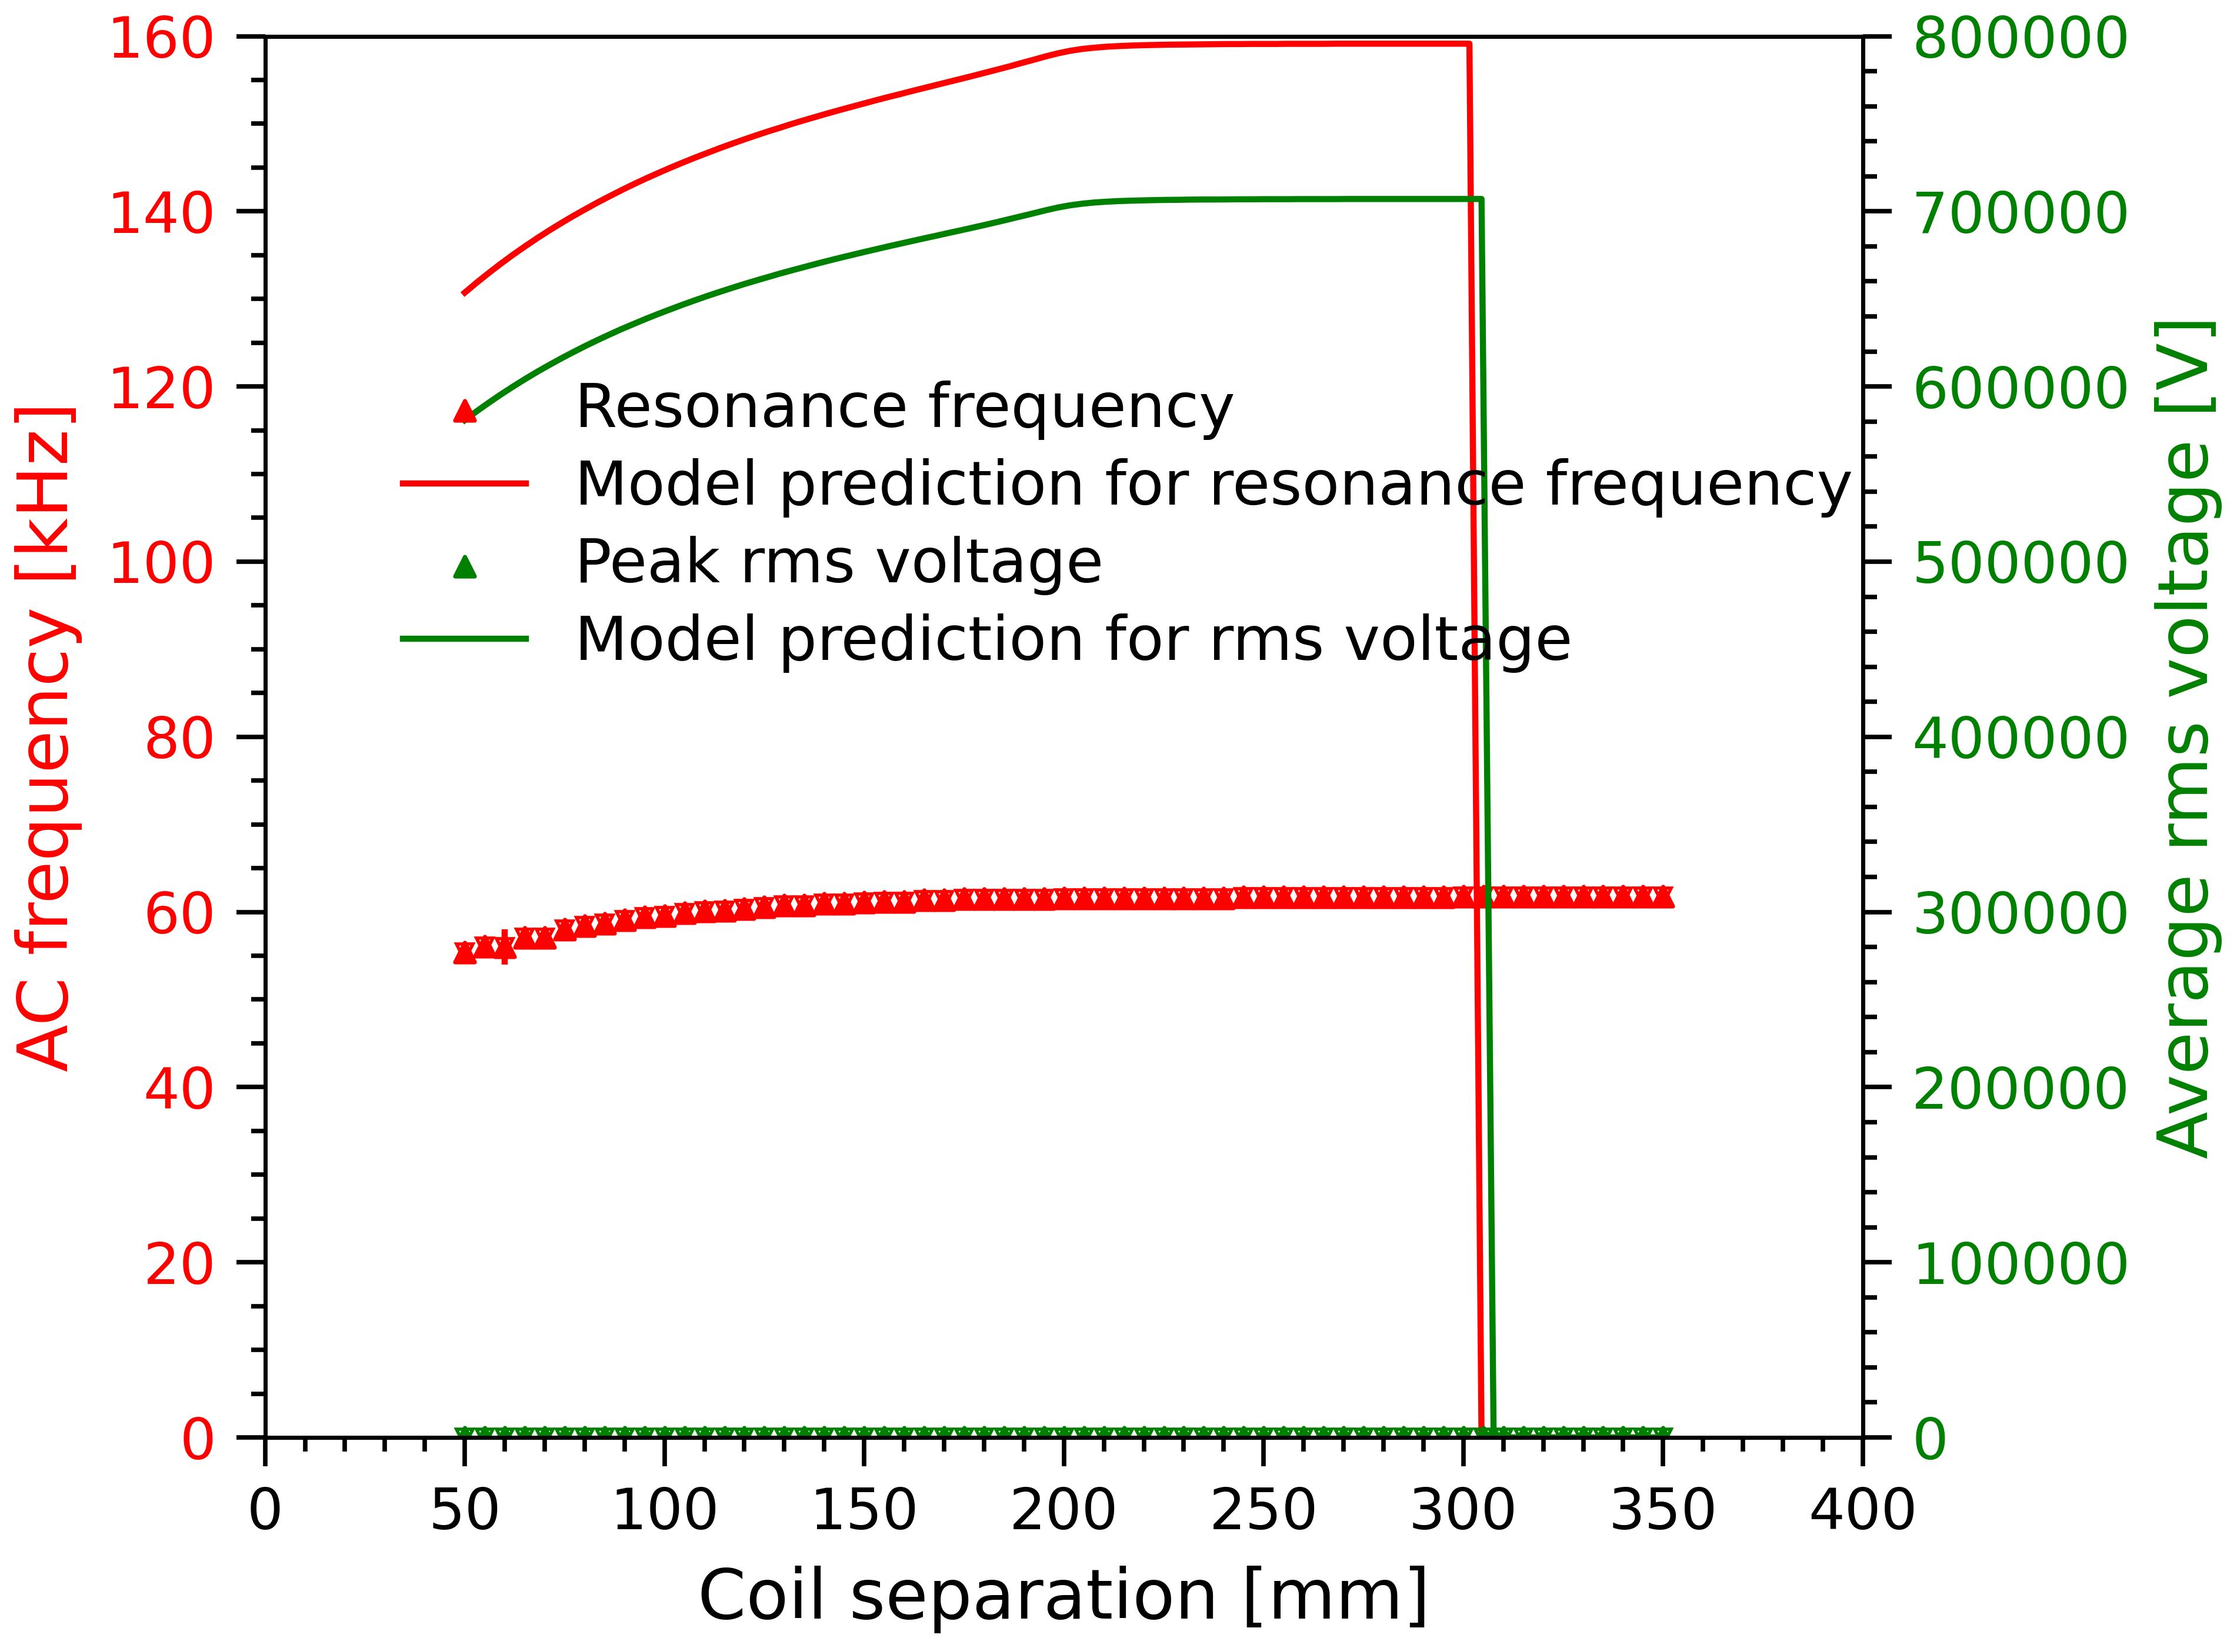
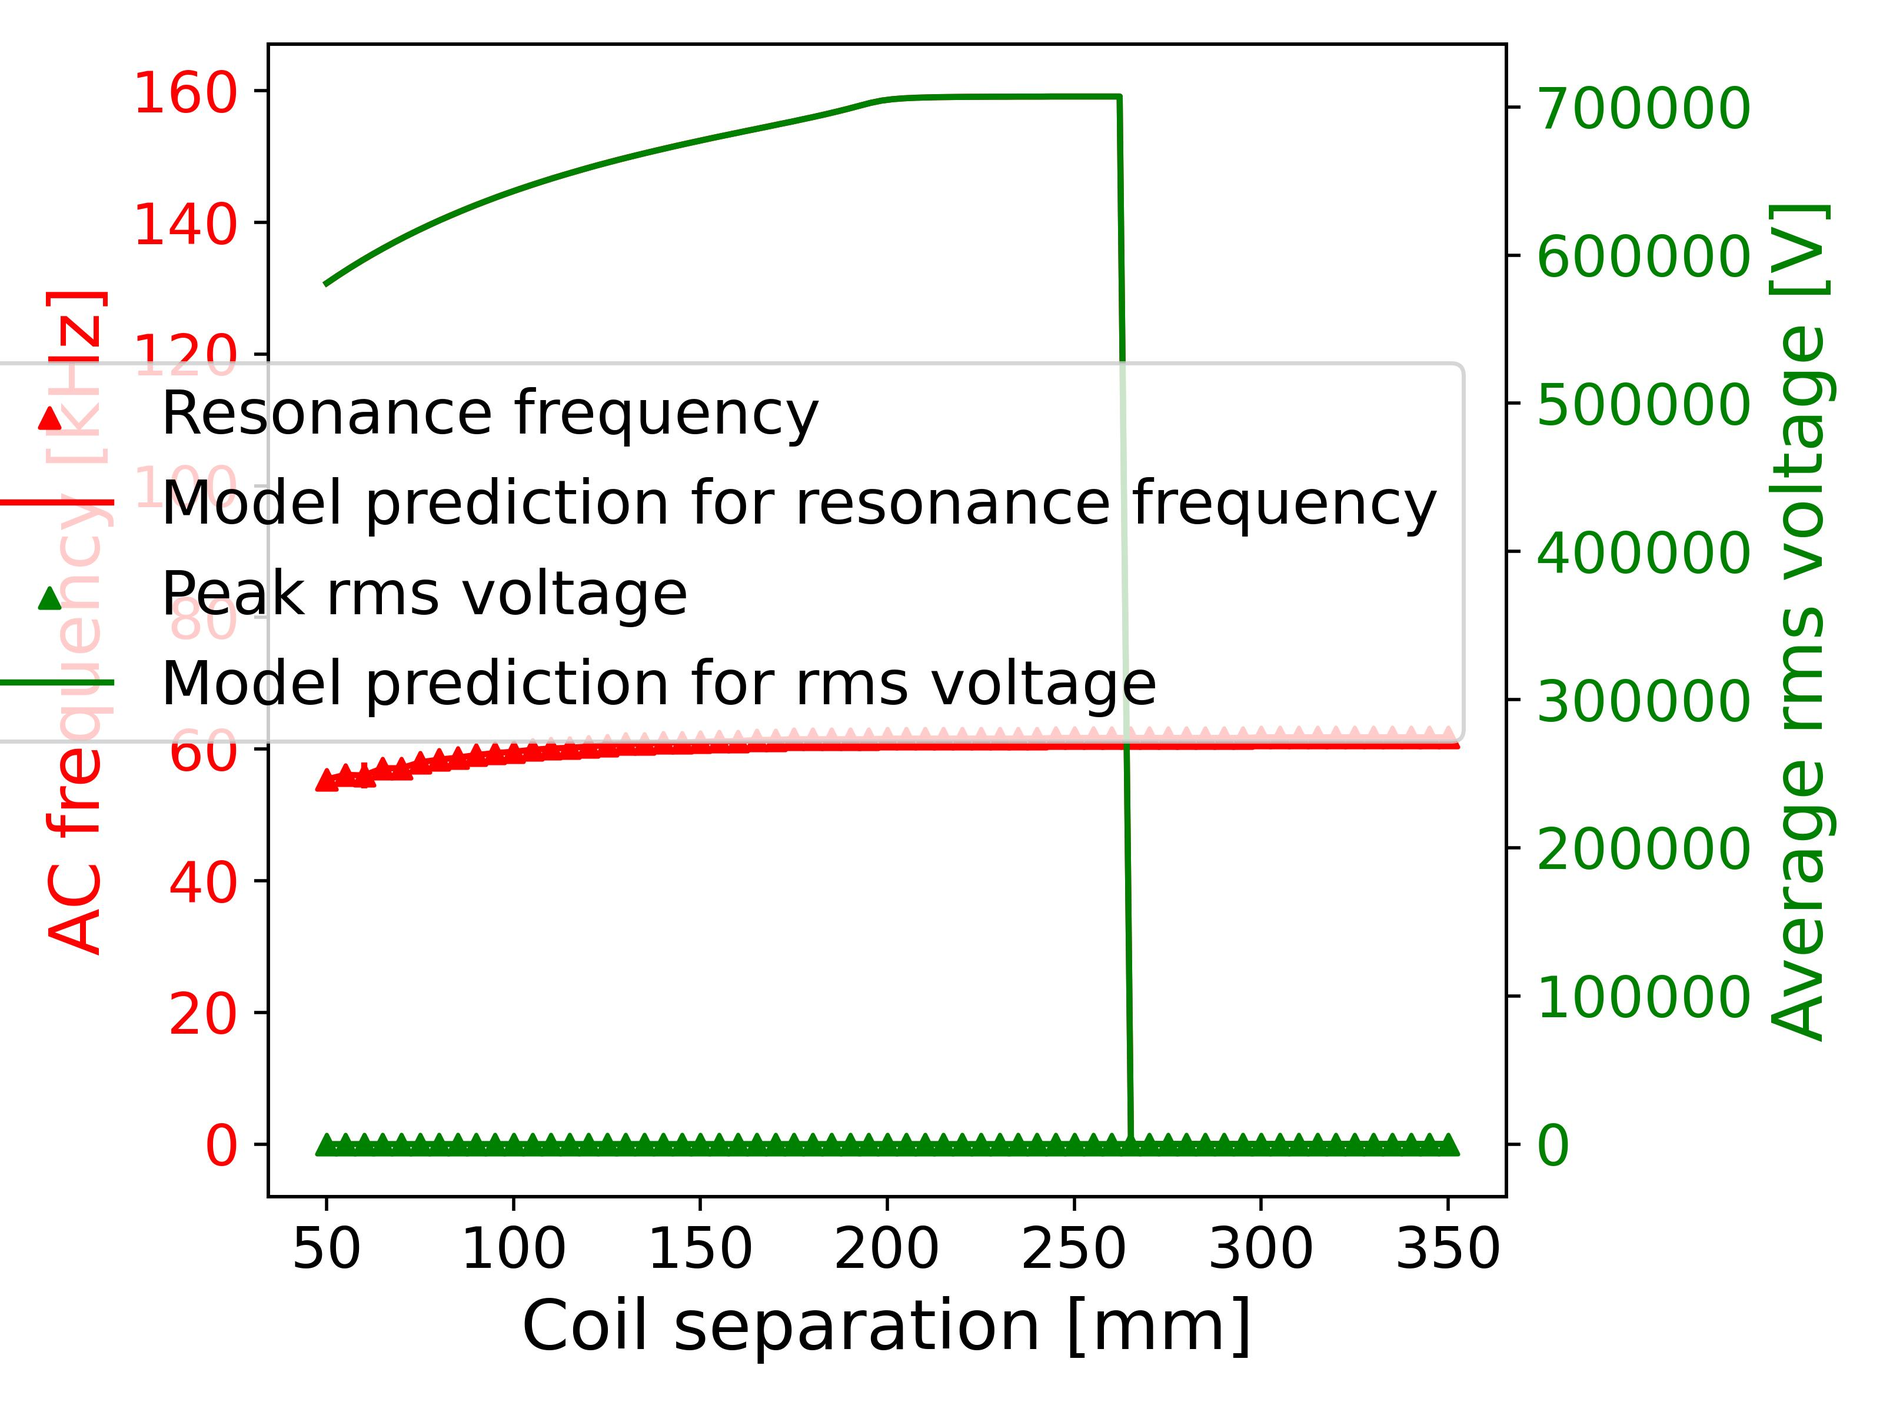
Smooth brain frequency to voltage

diff --git a/main.py b/main.py
@@ -60,7 +60,7 @@ plt.ylabel('Peak voltage [V]')
 plt.legend(loc="upper right", borderaxespad=0.5)
 # plt.title("Theoretical model compared with data of frequency versus voltage for a distance of 5 cm")
 plt.savefig("Theoretical model compared with data of frequency versus voltage for a distance of 5 cm.jpg", dpi=500)
-# plt.show()
+plt.show()
 
 # Plotting the data vs the predicted values for a distance of 35 cm
 newxqr = np.linspace(newx[0], newx[-1], 10000)
@@ -73,7 +73,7 @@ plt.ylabel('Peak voltage [V]')
 plt.legend(loc="upper right", borderaxespad=0.5)
 # plt.title("Theoretical model compared with data of frequency versus voltage for a distance of 35 cm")
 plt.savefig("Theoretical model compared with data of frequency versus voltage for a distance of 35 cm.jpg", dpi=500)
-# plt.show()
+plt.show()
 
 # Fitting the data and plotting with the correct resistance for 5 cm
 norespopt, norespcov = curve_fit(functions.voltnores, xdata, ydata, p0=[0.1, 0.1, 1e-10], maxfev=500000)
@@ -89,8 +89,8 @@ plt.ylabel('Peak voltage [V]')
 plt.legend(loc="upper right", borderaxespad=0.5)
 # plt.title("Fitting the values with the correct resistances for a distance of 5 cm")
 plt.savefig("Fitting the values with the correct resistances for a distance of 5 cm.jpg", dpi=500)
-# plt.show()
-
+plt.show()
+'''
 # Fitting the data and plotting with the correct resistance for 35 cm
 norespopt, norespcov = curve_fit(functions.voltnores35, newx, newy, p0=[0.1, 0.1, 1e-10], maxfev=500000)
 norespopt = abs(norespopt)  # making sure the values are positive
@@ -105,7 +105,7 @@ plt.ylabel('Peak voltage [V]')
 plt.legend(loc="upper right", borderaxespad=0.5)
 # plt.title("Fitting the values with the correct resistances for a distance of 35 cm")
 plt.savefig("Fitting the values with the correct resistances for a distance of 35 cm.jpg", dpi=500)
-# plt.show()
+plt.show()'''
 
 # Fitting the data for all values for 5 cm
 print(functions.M)
@@ -123,7 +123,7 @@ plt.ylabel('Peak voltage [V]')
 plt.legend(loc="upper right", borderaxespad=0.5)
 # plt.title("Fitting the values for a distance of 5 cm")
 plt.savefig("Fitting the values for a distance of 5 cm.jpg", dpi=500)
-# plt.show()
+plt.show()
 a = popt
 # Fitting the data for all values for 35 cm
 functions.M = functions.mutual(0.35)
@@ -141,7 +141,7 @@ plt.ylabel('Peak voltage [V]')
 plt.legend(loc="upper right", borderaxespad=0.5)
 # plt.title("Fitting the values for a distance of 35 cm")
 plt.savefig("Fitting the values for a distance of 35 cm.jpg", dpi=500)
-# plt.show()
+plt.show()
 
 p, = plt.plot(xdata, functions.volt(xdata, *a), 'r-')
 plt.ylim(0, 100)
@@ -155,7 +155,7 @@ def value_update(val):
 
 
 slider.on_changed(value_update)
-# plt.show()
+plt.show()
 
 """popt1, pcov1 = curve_fit(functions.v1dis, xdis, ydis, p0=[5, 0.1, 60, 7, 1e-10], bounds=(0, 70), maxfev=5000)
 errs = np.sqrt(np.diag(abs(pcov1)))
@@ -182,7 +182,7 @@ def newupdate(val):
 plt.xlabel('Distance [cm]')
 plt.ylabel('First peak voltage [V]')
 plt.legend()
-# plt.show()"""
+plt.show()"""
 
 popt1, pcov1 = curve_fit(functions.f1dis, xfr, yfr, p0=[0.04, 0.087, 1067, 1034, 1.128e-10], maxfev=50000)
 errs = np.sqrt(np.diag(abs(pcov1)))
@@ -196,22 +196,22 @@ plt.plot(xfr, functions.f1dis(xfr, 0.1, 0.1, 57, 7, 1e-10), 'g-',
 plt.xlabel('Distance [cm]')
 plt.ylabel('First peak angular frequency [rad/s]')
 plt.legend()
-# plt.show()
+plt.show()
 
 dist = np.linspace(50, 350, 100)
 
 functions.double_plot(nrv_d13, nrf_d13, nrv13, nrf13, nrv_d13_err, nrf_d13_err, nrv13_err, nrf13_err, dist,
                       functions.f1dis(dist / 10, 0.01, 0.01, 57, 7, 1e-10) / (2000 * np.pi), dist,
-                      functions.v1dis(dist / 10, 0.01, 0.01, 57, 7, 1e-10) / np.sqrt(2), "first, merged", "no resistor")
+                      functions.v1dis(dist / 10, 0.04, 0.087, 1067, 1034, 1.128e-10) / np.sqrt(2), "first, merged", "no resistor")
 
 functions.double_plot(bcv_d13, bcf_d13, bcv13, bcf13, bcv_d13_err, bcf_d13_err, bcv13_err, bcf13_err, dist,
-                      functions.f1dis(dist / 10, 0.01, 0.01, 57, 1000, 1e-10) / (2000 * np.pi), dist,
-                      functions.v1dis(dist / 10, 0.01, 0.01, 57, 1000, 1e-10) / np.sqrt(2), "first, merged", "resistor")
+                      functions.f1disres(dist / 10, 0.01, 0.01, 57, 1000, 1e-10) / (2000 * np.pi), dist,
+                      functions.v1disres(dist / 10, 0.01, 0.01, 57, 1000, 1e-10) / np.sqrt(2), "first, merged", "resistor")
 
 functions.double_plot(nrv_d12, nrf_d12, nrv2, nrf2, nrv_d12_err, nrf_d12_err, nrv2_err, nrf2_err, dist,
                       functions.f2dis(dist / 10, 0.01, 0.01, 57, 7, 1e-10) / (2000 * np.pi), dist,
                       functions.v2dis(dist / 10, 0.01, 0.01, 57, 7, 1e-10) / np.sqrt(2), "second", "no resistor")
 
 functions.double_plot(bcv_d12, bcf_d12, bcv2, bcf2, bcv_d12_err, bcf_d12_err, bcv2_err, bcf2_err, dist,
-                      functions.f1dis(dist / 10, 0.01, 0.01, 57, 1007, 1e-10) / (2000 * np.pi), dist,
-                      functions.v1dis(dist / 10, 0.01, 0.01, 57, 1007, 1e-10) / np.sqrt(2), "second", "resistor")
+                      functions.f2disres(dist / 10, 0.01, 0.01, 57, 1007, 1e-10) / (2000 * np.pi), dist,
+                      functions.v2disres(dist / 10, 0.01, 0.01, 57, 1007, 1e-10) / np.sqrt(2), "second", "resistor")

diff --git a/functions.py b/functions.py
@@ -60,6 +60,17 @@ def voltdis(x, a, b, c, d, e, M):
     return 1e10 * np.sqrt(A ** 2 + B ** 2)
 
 
+def voltdisres(x, a, b, c, d, e, M):
+    """Returns the voltage for an omega (x) for a,b,c,d,e variables and a given M (which corresponds to a specific
+    distance """
+    s = a * x ** 4 - M ** 2 * x ** 4 - c * x ** 2 + e
+    t = d * x - b * x ** 3
+    p = M * x ** 2 * V0
+    A = p * t / (s ** 2 + t ** 2)
+    B = p * s / (s ** 2 + t ** 2)
+    return 1e3 * x * np.sqrt(A ** 2 + B ** 2)
+
+
 def circuit_values(a, b, c, d, e):
     """The function takes as input the values of a,b,c,d,e and returns the corresponding capacitances, resistances
     and so on. We assume C2 = 1e-10. The output is an array of the form [L1,L2,R1,R2,C1]"""
@@ -120,20 +131,20 @@ def roundup(x):
 
 def v1dis(x, L1, L2, R1, R2, C1):
     """Takes as input the distance and circuit values and returns the voltage of the first peak"""
-    xfreq = np.linspace(188e3, 1000000, 10000)
+    xfreq = np.linspace(246e3, 1200e3, 10000)
     y = np.zeros(len(x))
     for i in range(len(x)):
         o = voltdis(xfreq, *letters(L1, L2, R1, R2, C1), mutual(x[i] / 100))
         for j in range(1, len(xfreq) - 1):
             if o[j + 1] < o[j] and o[j - 1] < o[j]:
-                y[i] = xfreq[j]
+                y[i] = o[j]
                 break
     return y
 
 
 def f1dis(x, L1, L2, R1, R2, C1):
     """Takes as input the distance and circuit values and returns the frequency of the first peak"""
-    xfreq = np.linspace(100e3, 1000e3, 10000)
+    xfreq = np.linspace(246e3, 1200e3, 10000)
     y = np.zeros(len(x))
     yfreq = np.zeros(len(x))
     for i in range(len(x)):
@@ -147,23 +158,75 @@ def f1dis(x, L1, L2, R1, R2, C1):
 
 def v2dis(x, L1, L2, R1, R2, C1):
     """Takes as input the distance and circuit values and returns the voltage of the sceond peak"""
-    xfreq = np.linspace(188e3, 1000000, 10000)
+    xfreq = np.linspace(246e3, 1200e3, 10000)
     y = np.zeros(len(x))
     for i in range(len(x)):
         o = voltdis(xfreq, *letters(L1, L2, R1, R2, C1), mutual(x[i] / 100))
         for j in range(1, len(xfreq) - 1):
             if o[j + 1] < o[j] and o[j - 1] < o[j]:
-                y[i] = xfreq[j]
+                y[i] = o[j]
     return y
 
 
 def f2dis(x, L1, L2, R1, R2, C1):
     """Takes as input the distance and circuit values and returns the frequency of the second peak"""
-    xfreq = np.linspace(100e3, 1000e3, 10000)
+    xfreq = np.linspace(246e3, 1200e3, 10000)
     y = np.zeros(len(x))
     yfreq = np.zeros(len(x))
     for i in range(len(x)):
         o = voltdis(xfreq, *letters(L1, L2, R1, R2, C1), mutual(x[i] / 100))
+        for j in range(1, len(xfreq) - 1):
+            if o[j + 1] < o[j] and o[j - 1] < o[j]:
+                yfreq[i] = xfreq[j]
+    return yfreq
+
+
+def v1disres(x, L1, L2, R1, R2, C1):
+    """Takes as input the distance and circuit values and returns the voltage of the first peak"""
+    xfreq = np.linspace(246e3, 1200e3, 10000)
+    y = np.zeros(len(x))
+    for i in range(len(x)):
+        o = voltdisres(xfreq, *letters(L1, L2, R1, R2, C1), mutual(x[i] / 100))
+        for j in range(1, len(xfreq) - 1):
+            if o[j + 1] < o[j] and o[j - 1] < o[j]:
+                y[i] = o[j]
+                break
+    return y
+
+
+def f1disres(x, L1, L2, R1, R2, C1):
+    """Takes as input the distance and circuit values and returns the frequency of the first peak"""
+    xfreq = np.linspace(246e3, 1200e3, 10000)
+    y = np.zeros(len(x))
+    yfreq = np.zeros(len(x))
+    for i in range(len(x)):
+        o = voltdisres(xfreq, *letters(L1, L2, R1, R2, C1), mutual(x[i] / 100))
+        for j in range(1, len(xfreq) - 1):
+            if o[j + 1] < o[j] and o[j - 1] < o[j]:
+                yfreq[i] = xfreq[j]
+                break
+    return yfreq
+
+
+def v2disres(x, L1, L2, R1, R2, C1):
+    """Takes as input the distance and circuit values and returns the voltage of the sceond peak"""
+    xfreq = np.linspace(246e3, 1200e3, 10000)
+    y = np.zeros(len(x))
+    for i in range(len(x)):
+        o = voltdisres(xfreq, *letters(L1, L2, R1, R2, C1), mutual(x[i] / 100))
+        for j in range(1, len(xfreq) - 1):
+            if o[j + 1] < o[j] and o[j - 1] < o[j]:
+                y[i] = o[j]
+    return y
+
+
+def f2disres(x, L1, L2, R1, R2, C1):
+    """Takes as input the distance and circuit values and returns the frequency of the second peak"""
+    xfreq = np.linspace(246e3, 1200e3, 10000)
+    y = np.zeros(len(x))
+    yfreq = np.zeros(len(x))
+    for i in range(len(x)):
+        o = voltdisres(xfreq, *letters(L1, L2, R1, R2, C1), mutual(x[i] / 100))
         for j in range(1, len(xfreq) - 1):
             if o[j + 1] < o[j] and o[j - 1] < o[j]:
                 yfreq[i] = xfreq[j]
@@ -193,5 +256,6 @@ def double_plot(x1, x2, y1, y2, x1err, x2err, y1err, y2err, xfmodel, yfmodel, xv
 
     fig.legend(loc="upper right", bbox_to_anchor=(0.99, 0.75), bbox_transform=ax1.transAxes, fontsize=15)
     plt.tight_layout()
-    plt.savefig("Coil separation v " + title + " peak voltage and resonance frequency, " + resistor + ".jpg", dpi=500)
-    # plt.show()
+    # plt.savefig("Coil separation v " + title + " peak voltage and resonance frequency, " + resistor + ".jpg", dpi=500)
+    plt.show()
+
